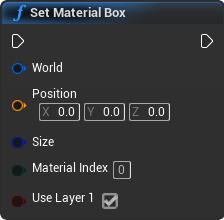
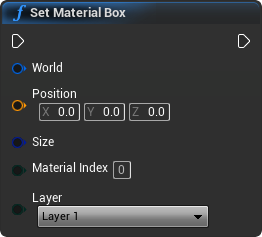
Update

diff --git a/generated_doc/SetMaterialSphere.html b/generated_doc/SetMaterialSphere.html
@@ -51,16 +51,16 @@
             <div class="param_type">Byte</div>
           </td>
           <td>
-            <p />
+            <p>Material to set</p>
           </td>
         </tr>
         <tr>
           <td>
-            <div class="param_name title_style">Use Layer 1</div>
-            <div class="param_type">Boolean</div>
+            <div class="param_name title_style">Layer</div>
+            <div class="param_type">EVoxelLayer Enum</div>
           </td>
           <td>
-            <p />
+            <p>Layer to use</p>
           </td>
         </tr>
         <tr>

diff --git a/generated_doc/SetMaterialBox.html b/generated_doc/SetMaterialBox.html
@@ -56,8 +56,8 @@
         </tr>
         <tr>
           <td>
-            <div class="param_name title_style">Use Layer 1</div>
-            <div class="param_type">Boolean</div>
+            <div class="param_name title_style">Layer</div>
+            <div class="param_type">EVoxelLayer Enum</div>
           </td>
           <td>
             <p>Layer to paint on</p>

diff --git a/generated_doc/SetMaterialProjection.html b/generated_doc/SetMaterialProjection.html
@@ -65,8 +65,8 @@
         </tr>
         <tr>
           <td>
-            <div class="param_name title_style">Use Layer 1</div>
-            <div class="param_type">Boolean</div>
+            <div class="param_name title_style">Layer</div>
+            <div class="param_type">EVoxelLayer Enum</div>
           </td>
           <td>
             <p>Layer to use</p>

diff --git a/voxelmaterial.rst b/voxelmaterial.rst
@@ -1,0 +1,18 @@
+Voxel Material
+==============
+
+A *Voxel Material* has 4 properties:
+
+* 2 materials index (A and B)
+* an alpha
+* a Voxel Actor ID
+
+The final material is Lerp(A, B, alpha). The Voxel Actor ID is used for Voxel Actors spawn.
+
+This means you can't have more than 2 materials on a single voxel: this is problematic when painting for instance.
+
+This is also why Voxel Tools that paint the world have a Layer parameter: Layer = 0 means the index A is changed, and Layer = 1 means it's the B that's modified.
+
+This also lead to issues similar to those below:
+
+.. image:: img/voxelmaterial_glitches.png

diff --git a/loadsave.rst b/loadsave.rst
@@ -1,0 +1,22 @@
+Load/Save
+=========
+
+The plugin supports fast load/save. A save is stored in a **VoxelWorldSave** struct.
+
+To get this struct from the world / load the world from this struct, you need to use **LoadFromSave** and **GetSave**.
+
+You can then save this struct in a classic `UE SaveGame object`_.
+
+.. _UE SaveGame object: https://docs.unrealengine.com/en-us/Gameplay/SaveGame 
+
+Load From Save
+--------------
+
+.. raw:: html
+   :file: generated_doc/LoadFromSave.html
+
+Get Save
+--------
+
+.. raw:: html
+   :file: generated_doc/GetSave.html

diff --git a/voxeltype.rst b/voxeltype.rst
@@ -1,0 +1,23 @@
+Voxel Type
+==========
+
+A *Voxel Type* is used when merging world generators, and more particulary voxel assets.
+
+It has 2 properties:
+
+VoxelValueType
+--------------
+
+3 possible values:
+
+* IgnoreValue: Value shouldn't be used
+* UseValueIfSameSign: use the value if the 2 worlds are empty at this position, or if they are both full
+* UseValue: the value should be used
+
+VoxelMaterialType
+-----------------
+
+2 possible values:
+
+* IgnoreMaterial: the material shouldn't be used
+* UseMaterial: the material should be used

diff --git a/index.rst b/index.rst
@@ -7,6 +7,8 @@ Voxel Plugin
    installation
    quickstart
    tips
+   voxelmaterial
+   voxeltype
    voxeltools
    voxelworldgenerator
    voxelgraph
@@ -16,3 +18,5 @@ Voxel Plugin
    voxelgrassandvoxelactors.rst
    texturearrays.rst
    multiplayer.rst
+   voxelphysics
+   loadsave
